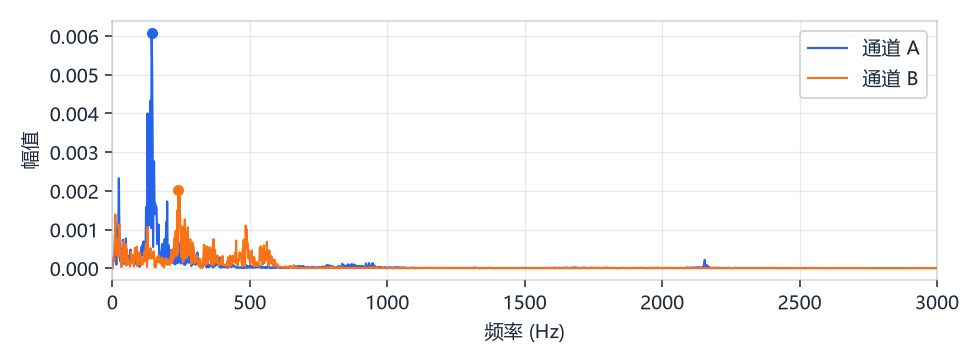
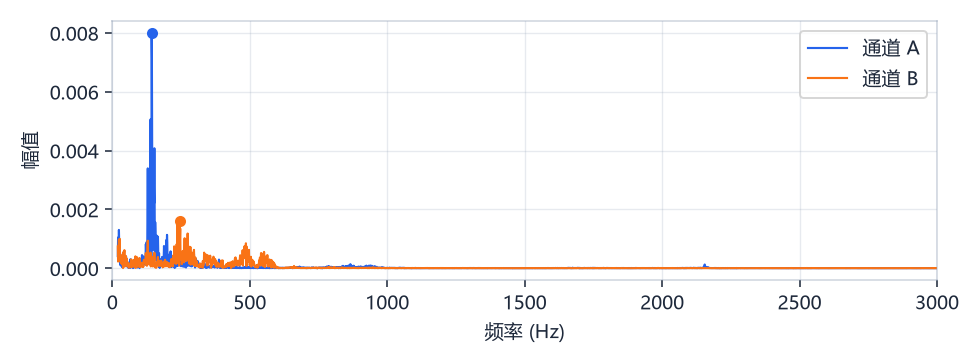
新增定位可信度判定与球铁材料声速，优化频谱分析与带通滤波实现

diff --git a/core/analysis.py b/core/analysis.py
@@ -12,8 +12,14 @@ import numpy as np
 from scipy import signal
 
 SAMPLE_RATE = 7500.0
+#: 阻带边界系数：阻带 = [0.8*low, 1.2*high]（与 MATLAB bandp.m 一致）
 CUT_LOW = 0.8
 CUT_HIGH = 1.2
+#: 通带纹波 (dB) 与阻带衰减 (dB)（与 MATLAB bandp.m 内部固定值一致）
+PASS_RIPPLE_DB = 1.0
+STOP_ATTEN_DB = 40.0
+#: 定位有效性阈值：SNR 低于该值视为不可信（与 MATLAB locating.m 的 flag 判据一致）
+SNR_VALID_THRESHOLD = 6.0
 
 #: 默认扫描频段（Hz）
 DEFAULT_BANDS = [
@@ -24,6 +30,7 @@ DEFAULT_BANDS = [
 @dataclass
 class LocateResult:
     ok: bool = False
+    flag: bool = False  # SNR >= SNR_VALID_THRESHOLD 时为 True（定位可信）
     dis_a: float = -1.0
     dis_b: float = -1.0
     snr: float = 0.0
@@ -49,17 +56,13 @@ def chebyshev2_bandpass(values: Iterable[float], low: float, high: float,
     if x.size == 0:
         return x
 
-    cut_low = low * CUT_LOW
-    cut_high = high * CUT_HIGH
-    if cut_low <= 0 or cut_high >= fs / 2 or cut_low >= cut_high:
+    wp = [low / (fs / 2), high / (fs / 2)]
+    ws = [low * CUT_LOW / (fs / 2), high * CUT_HIGH / (fs / 2)]
+    if min(wp) <= 0 or max(wp) >= 1 or min(wp) >= max(wp):
         return x.copy()
 
-    wp = [cut_low / (fs / 2), cut_high / (fs / 2)]
-    ws = [max(0.001, cut_low * 0.9 / (fs / 2)),
-          min(0.999, cut_high * 1.1 / (fs / 2))]
-
     try:
-        order, wn = signal.cheb2ord(wp, ws, 0.5, 40.0)
+        order, wn = signal.cheb2ord(wp, ws, PASS_RIPPLE_DB, STOP_ATTEN_DB)
         b, a = signal.cheby2(order, 40.0, wn, btype="bandpass")
         if len(b) > len(x):
             return x.copy()
@@ -160,6 +163,7 @@ def evaluate_band(a: Iterable[float], b: Iterable[float], distance: float,
     result.ok = True
     result.coefficient = coefficient
     result.snr = coefficient / mean_corr
+    result.flag = result.snr >= SNR_VALID_THRESHOLD
     result.dis_a = dis_a
     result.dis_b = dis_b
     result.time_diff = (dis_a - dis_b) / velocity
@@ -202,17 +206,17 @@ def locate(a: Iterable[float], b: Iterable[float], distance: float,
 
 
 def spectrum(values: Iterable[float], fs: float = SAMPLE_RATE,
-             max_frequency: float = 3000.0):
+             min_frequency: float = 20.0, max_frequency: float = 3000.0):
+    """与 MATLAB getFreWave.m 一致：全长 FFT，返回 min~max 频率范围内的幅值。"""
     x = np.asarray(values, dtype=np.float64)
-    n = 1 << (x.size.bit_length() - 1)
+    n = x.size
     if n < 2:
         return np.array([]), np.array([])
 
-    segment = x[:n] - np.mean(x[:n])
-    spectrum_values = np.fft.rfft(segment)
+    spectrum_values = np.fft.rfft(x)
     frequencies = np.fft.rfftfreq(n, d=1.0 / fs)
     amplitudes = np.abs(spectrum_values) * 2.0 / n
-    mask = frequencies <= max_frequency
+    mask = (frequencies >= min_frequency) & (frequencies <= max_frequency)
     return frequencies[mask], amplitudes[mask]
 
 

diff --git a/report.py b/report.py
@@ -80,7 +80,8 @@ def plot_spectrum(out_dir: Path, data_a, data_b, fs: float,
             (data_a[:preview_length], "通道 A", COLOR_A),
             (data_b[:preview_length], "通道 B", COLOR_B),
     ):
-        frequencies, amplitudes = spectrum(values, fs, max_frequency)
+        frequencies, amplitudes = spectrum(values, fs,
+                                           max_frequency=max_frequency)
         if not frequencies.size:
             continue
         peak_index = int(amplitudes.argmax())
@@ -173,6 +174,7 @@ def write_result_json(out_dir: Path, result: LocateResult, params,
         },
         "result": {
             "ok": result.ok,
+            "flag": result.flag,
             "dis_a": result.dis_a,
             "dis_b": result.dis_b,
             "snr": result.snr,

diff --git a/cli.py b/cli.py
@@ -147,6 +147,7 @@ def main(argv: list[str] | None = None) -> int:
     print(f"  最优频段：{result.best_low}-{result.best_high} Hz"
           f"（扫描 {result.bands_used} 档）")
     print(f"  峰值相关系数：{result.coefficient:.4f}，SNR：{result.snr:.2f}")
+    print(f"  定位可信度：{'可信（SNR ≥ 6）' if result.flag else '不可信（SNR < 6）'}")
 
     out_dir = Path(args.output)
     out_dir.mkdir(parents=True, exist_ok=True)
